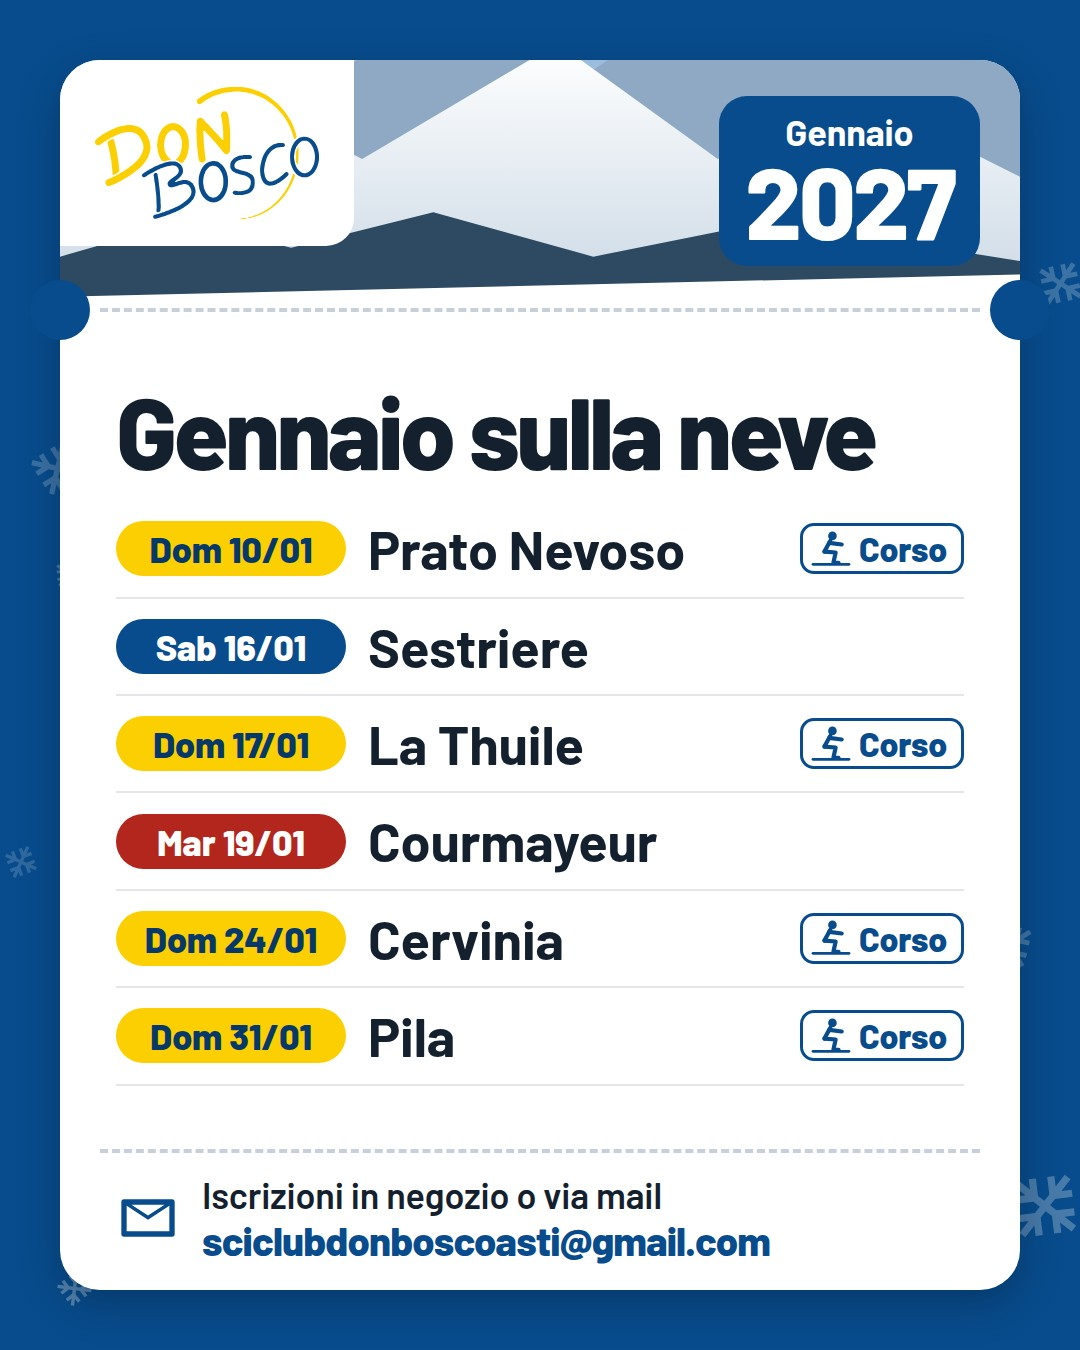
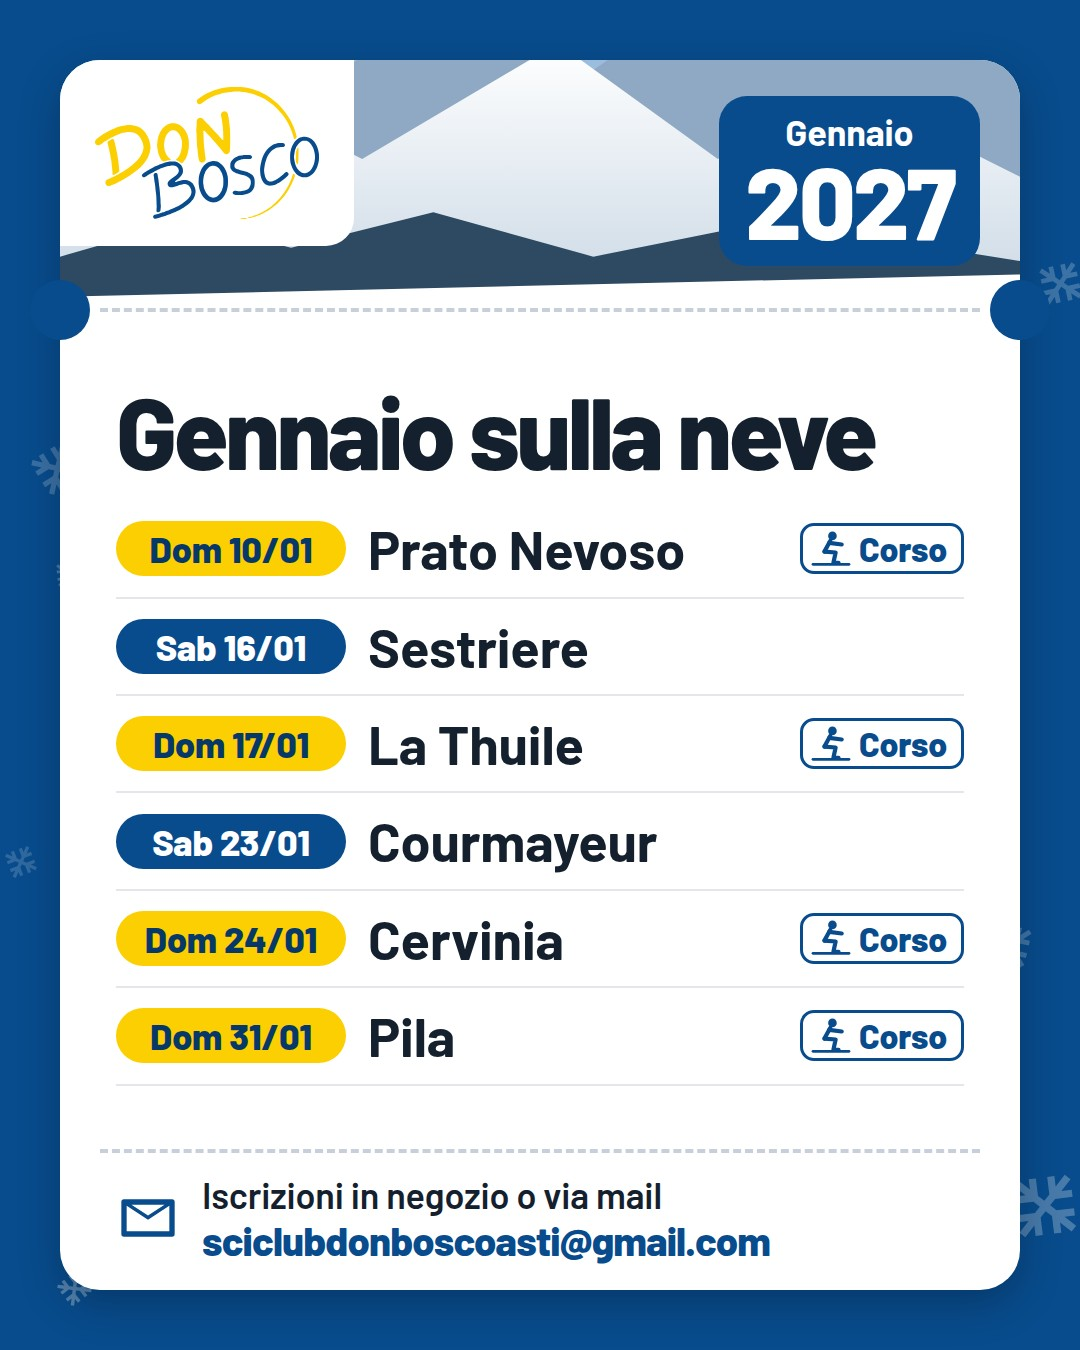
docs(social): una tavola per proposta con corso, gita, evento e calendario [skip ci]
Le tavole per tipo di post non servivano a scegliere: ora ce n'è una per
proposta (A, B, C) con i quattro post della stessa grafica, compresa la
presciistica ("Alzati dal divano!" in C). Per ora solo giallo e blu: la cena
passa dall'arancio al blu, con lo spumante giallo nei calici; nel calendario
un sabato prende il posto della gita del martedì; gli sci del pullman non
sono più rossi.

Changed region(s): [[0.0917, 0.5911, 0.3361, 0.6533]]

diff --git a/grafica/proposte-presciistica-2026/sorgenti/tavole/tavola.html b/grafica/proposte-presciistica-2026/sorgenti/tavole/tavola.html
@@ -2,22 +2,21 @@
 <html lang="it">
 <head>
 <meta charset="utf-8">
-<title>Tavola di confronto</title>
+<title>Tavola di una proposta</title>
 <link rel="stylesheet" href="https://fonts.googleapis.com/css2?family=Barlow:wght@500;600;700;800&display=block">
 <link rel="stylesheet" href="../comune.css">
 <style>
-/* Una tavola per tipo di post (#gita, #calendario, #evento): le tre grafiche
- * affiancate con i JPEG già resi (rendi.sh li fa prima). */
-html, body { width: 1720px; height: 1084px; background: #F5F5F7; }
+/* Una tavola per proposta (#a, #b, #c): i quattro post della stessa grafica
+ * affiancati, il corso (la presciistica), una gita, un evento e il
+ * calendario del mese, con i JPEG già resi (rendi.sh li fa prima). */
+html, body { width: 1720px; height: 820px; background: #F5F5F7; }
 .pagina { padding: 50px; }
-h1 { font-size: 66px; font-weight: 800; letter-spacing: -.03em; color: var(--blu); line-height: 1; }
+h1 { font-size: 66px; font-weight: 800; letter-spacing: -.03em; color: var(--testo); line-height: 1; }
+h1 b { color: var(--blu); }
 .sotto { font-size: 34px; font-weight: 600; color: var(--testo-soft); margin-top: 14px; line-height: 1.25; }
-.sotto b { color: var(--testo); }
-.colonne { display: grid; grid-template-columns: repeat(3, 500px); gap: 60px; margin-top: 36px; }
-h2 { font-size: 56px; font-weight: 800; letter-spacing: -.03em; line-height: 1; color: var(--testo); }
-h2 b { color: var(--blu); }
-.idea { font-size: 32px; font-weight: 600; color: var(--testo-soft); line-height: 1.15; margin: 10px 0 18px; height: 74px; }
-img { display: block; width: 500px; border-radius: 14px; box-shadow: 0 6px 20px rgba(20,32,46,.15); }
+.colonne { display: grid; grid-template-columns: repeat(4, 380px); gap: 33px; margin-top: 34px; }
+h2 { font-size: 44px; font-weight: 800; letter-spacing: -.02em; line-height: 1; color: var(--blu); margin-bottom: 14px; }
+img { display: block; width: 380px; border-radius: 12px; box-shadow: 0 6px 20px rgba(20,32,46,.15); }
 </style>
 </head>
 <body>
@@ -27,31 +26,20 @@ img { display: block; width: 500px; border-radius: 14px; box-shadow: 0 6px 20px 
   <div class="colonne" id="colonne"></div>
 </div>
 <script>
-const TAVOLE = {
-  gita: {
-    titolo: "Gita · le tre grafiche a confronto",
-    info: "meta, giorno, partenze con gli orari, quota soci e non soci, scadenza, iscrizioni e mail",
-    idee: ["Il biglietto sul colore del giorno della gita", "Il foglio del giorno, partenze e quota accanto",
-           "«Tutti in pista!» e il pullman, sul colore del giorno"],
-  },
-  calendario: {
-    titolo: "Calendario del mese · le tre grafiche a confronto",
-    info: "titolo del mese, le gite con giorno, data e meta, quali hanno il corso, iscrizioni e mail",
-    idee: ["Il biglietto blu con le righe del calendario di oggi", "Il mese intero sul foglio, le mete sotto",
-           "Il gancio e le righe grandi, senza disegno"],
-  },
-  evento: {
-    titolo: "Eventi (cena) · le tre grafiche a confronto",
-    info: "titolo e sottotesto, giorno e ora, luogo, quota, scadenza, iscrizioni e mail",
-    idee: ["Il biglietto arancio delle cene, di sera con le lucine", "Il foglio del giorno con la testata arancio",
-           "«Si chiude in festa!» e i calici, sull'arancio"],
-  },
+const PROPOSTE = {
+  a: { nome: "Biglietto", corso: "a-biglietto", idea: "Il biglietto bianco sul colore del post: giallo il corso e la gita della domenica, blu l'evento e il calendario." },
+  b: { nome: "Calendario", corso: "b-calendario", idea: "Sempre il blu del club; il foglio a strappo porta la data, il calendario diventa il mese intero." },
+  c: { nome: "Divano", corso: "c-divano", idea: "Il manifesto: un gancio grande scritto per ogni post («Alzati dal divano!», «Tutti in pista!»…) e un disegno." },
 };
-const tipo = location.hash.slice(1) in TAVOLE ? location.hash.slice(1) : "gita", t = TAVOLE[tipo];
-document.getElementById("titolo").textContent = t.titolo;
-document.getElementById("sotto").innerHTML = `Post 4:5, esempio con dati inventati. Tutte e tre danno le stesse informazioni: <b>${t.info}</b>.`;
-document.getElementById("colonne").innerHTML = [["A", "Biglietto"], ["B", "Calendario"], ["C", "Manifesto"]].map(([l, nome], i) =>
-  `<div><h2><b>${l}</b> · ${nome}</h2><div class="idea">${t.idee[i]}</div><img src="../../tavole/${tipo}-${l.toLowerCase()}.jpg" alt=""></div>`).join("");
+const chiave = location.hash.slice(1) in PROPOSTE ? location.hash.slice(1) : "a", p = PROPOSTE[chiave];
+document.getElementById("titolo").innerHTML = `<b>${chiave.toUpperCase()}</b> · ${p.nome}: corso, gita, evento e calendario`;
+document.getElementById("sotto").textContent = p.idea + " Post 4:5; gita, evento e calendario con dati inventati.";
+document.getElementById("colonne").innerHTML = [
+  ["Corso (presciistica)", `../../${p.corso}-post.jpg`],
+  ["Gita", `../../tavole/gita-${chiave}.jpg`],
+  ["Evento", `../../tavole/evento-${chiave}.jpg`],
+  ["Calendario", `../../tavole/calendario-${chiave}.jpg`],
+].map(([titolo, src]) => `<div><h2>${titolo}</h2><img src="${src}" alt=""></div>`).join("");
 </script>
 </body>
 </html>

diff --git a/grafica/proposte-presciistica-2026/sorgenti/tavole/calendario-b.html b/grafica/proposte-presciistica-2026/sorgenti/tavole/calendario-b.html
@@ -25,7 +25,7 @@ html { --cat: #FCCF02; --cat-ink: #06396A; }
 .mete div { display: flex; align-items: center; gap: 16px; font-size: 42px; font-weight: 800; letter-spacing: -.01em; white-space: nowrap; }
 .mete i { flex: none; font-style: normal; width: 92px; text-align: center; border-radius: 14px; font-size: 36px; padding: 2px 0; border: 3px solid #fff; }
 .mete small { font-size: 34px; font-weight: 600; color: #E7EFF7; }
-.dom { background: #FCCF02; color: #06396A; } .sab { background: #084C8D; color: #fff; } .mar { background: #B3261E; color: #fff; }
+.dom { background: #FCCF02; color: #06396A; } .sab { background: #084C8D; color: #fff; }
 .legenda { color: #fff; font-size: 34px; font-weight: 600; display: flex; align-items: center; gap: 14px; margin-top: -10px; }
 .legenda i { width: 22px; height: 22px; border-radius: 50%; background: #fff; border: 4px solid var(--blu); outline: 3px solid #fff; }
 </style>
@@ -52,13 +52,13 @@ html { --cat: #FCCF02; --cat-ink: #06396A; }
         <span></span><span></span><span></span><span></span><span>1</span><span>2</span><span>3</span>
         <span>4</span><span>5</span><span>6</span><span>7</span><span>8</span><span>9</span><span class="g c dom">10</span>
         <span>11</span><span>12</span><span>13</span><span>14</span><span>15</span><span class="g sab">16</span><span class="g c dom">17</span>
-        <span>18</span><span class="g mar">19</span><span>20</span><span>21</span><span>22</span><span>23</span><span class="g c dom">24</span>
+        <span>18</span><span>19</span><span>20</span><span>21</span><span>22</span><span class="g sab">23</span><span class="g c dom">24</span>
         <span>25</span><span>26</span><span>27</span><span>28</span><span>29</span><span>30</span><span class="g c dom">31</span>
       </div>
     </div>
     <div class="mete">
       <div><i class="dom">10</i>Prato Nevoso</div>
-      <div><i class="mar">19</i>Courmayeur</div>
+      <div><i class="sab">23</i>Courmayeur</div>
       <div><i class="sab">16</i>Sestriere</div>
       <div><i class="dom">24</i>Cervinia</div>
       <div><i class="dom">17</i>La Thuile</div>

diff --git a/grafica/proposte-presciistica-2026/sorgenti/tavole/evento-c.html b/grafica/proposte-presciistica-2026/sorgenti/tavole/evento-c.html
@@ -6,9 +6,9 @@
 <link rel="stylesheet" href="https://fonts.googleapis.com/css2?family=Barlow:wght@500;600;700;800&display=block">
 <link rel="stylesheet" href="../comune.css">
 <link rel="stylesheet" href="c.css">
-<!-- Cena: l'arancio della categoria "cena", scritto in bianco; il nastro resta blu scuro. -->
+<!-- Evento: il blu del club, gancio e nastro gialli come il calendario; si brinda con lo spumante. -->
 <style>
-html { --cat: #C2410C; --cat-ink: #fff; }
+html { --cat: #084C8D; --cat-ink: #fff; --gancio: #FCCF02; --nastro: #FCCF02; --nastro-ink: #06396A; }
 .gancio { font-size: 140px; }
 .nastro { font-size: 70px; }
 .info .quando { font-size: 56px; }
@@ -30,17 +30,17 @@ html { --cat: #C2410C; --cat-ink: #fff; }
       <svg viewBox="250 -10 280 300" preserveAspectRatio="xMidYMax meet" aria-hidden="true">
         <g transform="rotate(14 330 300)">
           <path d="M275 60 C275 150 295 176 330 179 C365 176 385 150 385 60 Z" fill="#fff"/>
-          <path d="M279 112 C283 160 300 173 330 175 C360 173 377 160 381 112 Z" fill="#7F1D1D"/>
+          <path d="M279 112 C283 160 300 173 330 175 C360 173 377 160 381 112 Z" fill="#FCCF02"/>
           <rect x="325" y="178" width="10" height="96" fill="#fff"/>
           <ellipse cx="330" cy="276" rx="46" ry="10" fill="#fff"/>
         </g>
         <g transform="rotate(-14 450 300)">
           <path d="M395 60 C395 150 415 176 450 179 C485 176 505 150 505 60 Z" fill="#fff"/>
-          <path d="M399 112 C403 160 420 173 450 175 C480 173 497 160 501 112 Z" fill="#7F1D1D"/>
+          <path d="M399 112 C403 160 420 173 450 175 C480 173 497 160 501 112 Z" fill="#FCCF02"/>
           <rect x="445" y="178" width="10" height="96" fill="#fff"/>
           <ellipse cx="450" cy="276" rx="46" ry="10" fill="#fff"/>
         </g>
-        <g fill="#FCCF02">
+        <g fill="#fff">
           <polygon points="390,0 400,26 426,30 404,44 410,70 390,56 370,70 376,44 354,30 380,26"/>
           <circle cx="320" cy="20" r="8"/><circle cx="462" cy="18" r="8"/><circle cx="292" cy="58" r="6"/><circle cx="490" cy="56" r="6"/>
         </g>

diff --git a/grafica/proposte-presciistica-2026/sorgenti/tavole/evento-a.html b/grafica/proposte-presciistica-2026/sorgenti/tavole/evento-a.html
@@ -6,9 +6,9 @@
 <link rel="stylesheet" href="https://fonts.googleapis.com/css2?family=Barlow:wght@500;600;700;800&display=block">
 <link rel="stylesheet" href="../comune.css">
 <link rel="stylesheet" href="a.css">
-<!-- Cena: l'arancio della categoria "cena" di social-templates.js; la scena è di sera, con le lucine. -->
+<!-- Evento: il blu del club (per ora gite ed eventi solo in giallo e blu); la scena è di sera, con le lucine. -->
 <style>
-html { --cat: #C2410C; --scena: 300px; }
+html { --cat: #084C8D; --scena: 300px; }
 h1 { font-size: 100px; }
 </style>
 </head>
@@ -19,12 +19,12 @@ h1 { font-size: 100px; }
     <div class="scena">
       <svg viewBox="0 0 1080 600" preserveAspectRatio="xMidYMax slice" aria-hidden="true">
         <defs>
-          <linearGradient id="sera" x1="0" y1="0" x2="0" y2="1"><stop offset="0" stop-color="#2B2F5E"/><stop offset=".8" stop-color="#F4A261"/></linearGradient>
+          <linearGradient id="sera" x1="0" y1="0" x2="0" y2="1"><stop offset="0" stop-color="#06396A"/><stop offset=".8" stop-color="#3E7CB8"/></linearGradient>
         </defs>
         <rect width="1080" height="600" fill="url(#sera)"/>
-        <polygon fill="#6B5B8C" points="0,400 150,290 290,350 460,230 600,330 760,220 900,310 1080,250 1080,600 0,600"/>
-        <polygon fill="#D9CFE6" points="0,480 200,360 340,430 560,300 740,430 900,360 1080,450 1080,600 0,600"/>
-        <polygon fill="#2E2A4A" points="0,540 140,500 260,530 420,490 600,540 800,500 1080,545 1080,600 0,600"/>
+        <polygon fill="#2E5F92" points="0,400 150,290 290,350 460,230 600,330 760,220 900,310 1080,250 1080,600 0,600"/>
+        <polygon fill="#C9D7E4" points="0,480 200,360 340,430 560,300 740,430 900,360 1080,450 1080,600 0,600"/>
+        <polygon fill="#14304F" points="0,540 140,500 260,530 420,490 600,540 800,500 1080,545 1080,600 0,600"/>
         <polygon fill="#fff" points="0,585 1080,560 1080,600 0,600"/>
         <!-- Il filo delle lucine, da un lato all'altro. -->
         <path d="M380 330 Q620 430 1080 330" fill="none" stroke="#14202E" stroke-width="4"/>

diff --git a/grafica/proposte-presciistica-2026/sorgenti/tavole/calendario-c.html b/grafica/proposte-presciistica-2026/sorgenti/tavole/calendario-c.html
@@ -17,7 +17,7 @@ html { --cat: #084C8D; --cat-ink: #fff; --gancio: #FCCF02; --nastro: #FCCF02; --
 .meta { font-size: 54px; font-weight: 800; letter-spacing: -.02em; }
 .corso { margin-left: auto; display: flex; align-items: center; gap: 8px; font-size: 36px; font-weight: 800; color: var(--giallo); }
 .corso svg { width: 44px; height: 44px; }
-.dom { background: #FCCF02; color: #06396A; } .sab { background: #084C8D; color: #fff; } .mar { background: #B3261E; color: #fff; }
+.dom { background: #FCCF02; color: #06396A; } .sab { background: #084C8D; color: #fff; }
 .iscrizioni b { color: var(--giallo); }
 </style>
 </head>
@@ -39,7 +39,7 @@ html { --cat: #084C8D; --cat-ink: #fff; --gancio: #FCCF02; --nastro: #FCCF02; --
       <div><span class="giorno dom">Dom 10</span><span class="meta">Prato Nevoso</span><span class="corso"><svg><use href="#sciatore"/></svg>corso</span></div>
       <div><span class="giorno sab">Sab 16</span><span class="meta">Sestriere</span></div>
       <div><span class="giorno dom">Dom 17</span><span class="meta">La Thuile</span><span class="corso"><svg><use href="#sciatore"/></svg>corso</span></div>
-      <div><span class="giorno mar">Mar 19</span><span class="meta">Courmayeur</span></div>
+      <div><span class="giorno sab">Sab 23</span><span class="meta">Courmayeur</span></div>
       <div><span class="giorno dom">Dom 24</span><span class="meta">Cervinia</span><span class="corso"><svg><use href="#sciatore"/></svg>corso</span></div>
       <div><span class="giorno dom">Dom 31</span><span class="meta">Pila</span><span class="corso"><svg><use href="#sciatore"/></svg>corso</span></div>
     </div>

diff --git a/grafica/proposte-presciistica-2026/sorgenti/tavole/calendario-a.html b/grafica/proposte-presciistica-2026/sorgenti/tavole/calendario-a.html
@@ -20,7 +20,7 @@ h1 { font-size: 100px; }
 .corso { margin-left: auto; flex: none; display: flex; align-items: center; gap: 8px; font-size: 34px; font-weight: 800;
   color: var(--blu); border: 3px solid var(--blu); border-radius: 14px; padding: 2px 14px 2px 8px; }
 .corso svg { width: 40px; height: 40px; }
-.dom { background: #FCCF02; color: #06396A; } .sab { background: #084C8D; color: #fff; } .mar { background: #B3261E; color: #fff; }
+.dom { background: #FCCF02; color: #06396A; } .sab { background: #084C8D; color: #fff; }
 </style>
 </head>
 <body>
@@ -54,7 +54,7 @@ h1 { font-size: 100px; }
         <div><span class="giorno dom">Dom 10/01</span><span class="meta">Prato Nevoso</span><span class="corso"><svg><use href="#sciatore"/></svg>Corso</span></div>
         <div><span class="giorno sab">Sab 16/01</span><span class="meta">Sestriere</span></div>
         <div><span class="giorno dom">Dom 17/01</span><span class="meta">La Thuile</span><span class="corso"><svg><use href="#sciatore"/></svg>Corso</span></div>
-        <div><span class="giorno mar">Mar 19/01</span><span class="meta">Courmayeur</span></div>
+        <div><span class="giorno sab">Sab 23/01</span><span class="meta">Courmayeur</span></div>
         <div><span class="giorno dom">Dom 24/01</span><span class="meta">Cervinia</span><span class="corso"><svg><use href="#sciatore"/></svg>Corso</span></div>
         <div><span class="giorno dom">Dom 31/01</span><span class="meta">Pila</span><span class="corso"><svg><use href="#sciatore"/></svg>Corso</span></div>
       </div>

diff --git a/grafica/proposte-presciistica-2026/sorgenti/tavole/evento-b.html b/grafica/proposte-presciistica-2026/sorgenti/tavole/evento-b.html
@@ -6,9 +6,9 @@
 <link rel="stylesheet" href="https://fonts.googleapis.com/css2?family=Barlow:wght@500;600;700;800&display=block">
 <link rel="stylesheet" href="../comune.css">
 <link rel="stylesheet" href="b.css">
-<!-- Cena: testata e numero nell'arancio della categoria "cena". -->
+<!-- Evento: testata gialla e numero blu, come la gita (per ora solo giallo e blu). -->
 <style>
-html { --cat: #C2410C; --cat-ink: #fff; --cat-txt: #C2410C; }
+html { --cat: #FCCF02; --cat-ink: #06396A; --cat-txt: #06396A; }
 .titolo { font-size: 100px; }
 .titolo small { display: block; font-size: 40px; font-weight: 700; letter-spacing: -.01em; color: var(--giallo); margin-top: 12px; line-height: 1.15; }
 .foglio { width: 400px; }

diff --git a/grafica/proposte-presciistica-2026/sorgenti/tavole/gita-c.html b/grafica/proposte-presciistica-2026/sorgenti/tavole/gita-c.html
@@ -21,7 +21,7 @@
       <svg viewBox="0 0 780 370" preserveAspectRatio="xMidYMax meet" aria-hidden="true">
         <ellipse cx="390" cy="352" rx="350" ry="14" fill="#06396A" opacity=".18"/>
         <rect x="150" y="66" width="440" height="14" rx="7" fill="#14202E"/>
-        <rect x="170" y="40" width="400" height="24" rx="12" fill="#B3261E"/>
+        <rect x="170" y="40" width="400" height="24" rx="12" fill="#14202E"/>
         <rect x="170" y="40" width="44" height="24" rx="12" fill="#fff"/>
         <rect x="190" y="14" width="400" height="24" rx="12" fill="#084C8D"/>
         <rect x="190" y="14" width="44" height="24" rx="12" fill="#fff"/>

diff --git a/grafica/proposte-presciistica-2026/README.md b/grafica/proposte-presciistica-2026/README.md
@@ -143,31 +143,32 @@ Vi aspettiamo numerosi!
 
 ---
 
-## Le tre grafiche su gite, calendario ed eventi
+## Ogni proposta su corso, gita, evento e calendario
 
-Per scegliere guardando anche gli altri post, non solo il corso: le stesse tre
-grafiche applicate a una gita, al calendario del mese e a una cena. Una
-tavola per tipo, in `tavole/`; ogni post da solo è accanto (`gita-a.jpg`...).
-Dati inventati, solo post 4:5 (niente story).
+Per scegliere guardando tutti i post, non solo il corso: una tavola per
+proposta, con il post della presciistica e la stessa grafica applicata a una
+gita, a un evento (una cena) e al calendario del mese. I post da soli sono in
+`tavole/` (`gita-a.jpg`...). Gita, evento e calendario hanno dati inventati;
+solo post 4:5 (niente story).
 
-![Gita](tavole/tavola-gita.jpg)
+![A · Biglietto](tavole/tavola-a.jpg)
 
-![Calendario del mese](tavole/tavola-calendario.jpg)
+![B · Calendario](tavole/tavola-b.jpg)
 
-![Eventi](tavole/tavola-evento.jpg)
+![C · Divano](tavole/tavola-c.jpg)
 
-- **A e C prendono il colore della categoria** (il giorno della gita, il blu
-  del calendario, l'arancio delle cene), come oggi Genera post; **B è sempre
-  blu** e il colore sta nella testata del foglio.
-- In ogni tavola le tre danno le stesse informazioni; cambia solo come sono
-  disegnate.
-- **Da decidere col giallo dei corsi:** la domenica è già gialla (colore del
-  giorno in Impostazioni). Nel calendario il corso qui è un'etichetta
-  contornata, non piena, per non confondersi con le domeniche; se i corsi
-  passano al giallo, Genera post dovrà fare lo stesso.
-- C per il corso era "Divano"; su gite ed eventi il gancio cambia ("Tutti in
-  pista!", "Si chiude in festa!") e va scritto post per post: è la grafica
-  che chiede più lavoro a chi pubblica.
+- **Per ora solo giallo e blu** (niente rosso del martedì né arancio delle
+  cene): gita di domenica in giallo, evento e calendario in blu; nel
+  calendario c'è un sabato al posto della gita del martedì.
+- **A e C prendono il colore del post**, **B è sempre blu** e il colore sta
+  nella testata del foglio.
+- In ogni post della stessa tavola le informazioni sono quelle che servono a
+  quel post; la proposta cambia solo come sono disegnate.
+- **Giallo dei corsi e domeniche:** sono lo stesso giallo. Nel calendario il
+  corso è un'etichetta contornata, non piena, per non confondersi.
+- **C** è "Divano" per la presciistica; sugli altri post il gancio cambia
+  ("Tutti in pista!", "Si chiude in festa!") e va scritto post per post: è la
+  grafica che chiede più lavoro a chi pubblica.
 
 ---
 
@@ -179,6 +180,7 @@ nell'indirizzo sceglie il formato) e `rendi.sh`, che rifà i JPEG con Chrome
 minimi, fasce coperte della story e testo tagliato.
 
 Le tavole: `sorgenti/tavole/`, una pagina per tipo e grafica (`gita-a.html`...,
-fogli di stile comuni `a.css`, `b.css`, `c.css`) e `tavola.html#gita`,
-`#calendario`, `#evento`; `sorgenti/tavole/rendi.sh` rifà post e tavole
+fogli di stile comuni `a.css`, `b.css`, `c.css`) e `tavola.html#a`, `#b`, `#c`,
+una per proposta; `sorgenti/tavole/rendi.sh` rifà post e tavole (i post del
+corso li fa `sorgenti/rendi.sh`)
 (`verifica` come sopra).

diff --git a/TODO.md b/TODO.md
@@ -53,7 +53,7 @@ segnala il socio non trovato; saldo di chiusura non più leggibile senza login.
 ## Social
 
 - [ ] Scegliere fra le proposte della presciistica (`grafica/proposte-presciistica-2026/`,
-      riviste il 10/10; tavole di confronto su gita, calendario e cena in `tavole/`). Se va A: i corsi passano al giallo in Genera post (colore della
+      riviste il 10/10; una tavola per proposta con corso, gita, evento e calendario in `tavole/`). Se va A: i corsi passano al giallo in Genera post (colore della
       categoria corso in `web/social-templates.js`, accenti blu sul giallo) e logo più grande.
 - [ ] Provare le grafiche nuove con foto vere e con le campagne sponsor.
 - [ ] Inserire i contatti veri in Social > Impostazioni > Contatti e spuntarli nei post.
